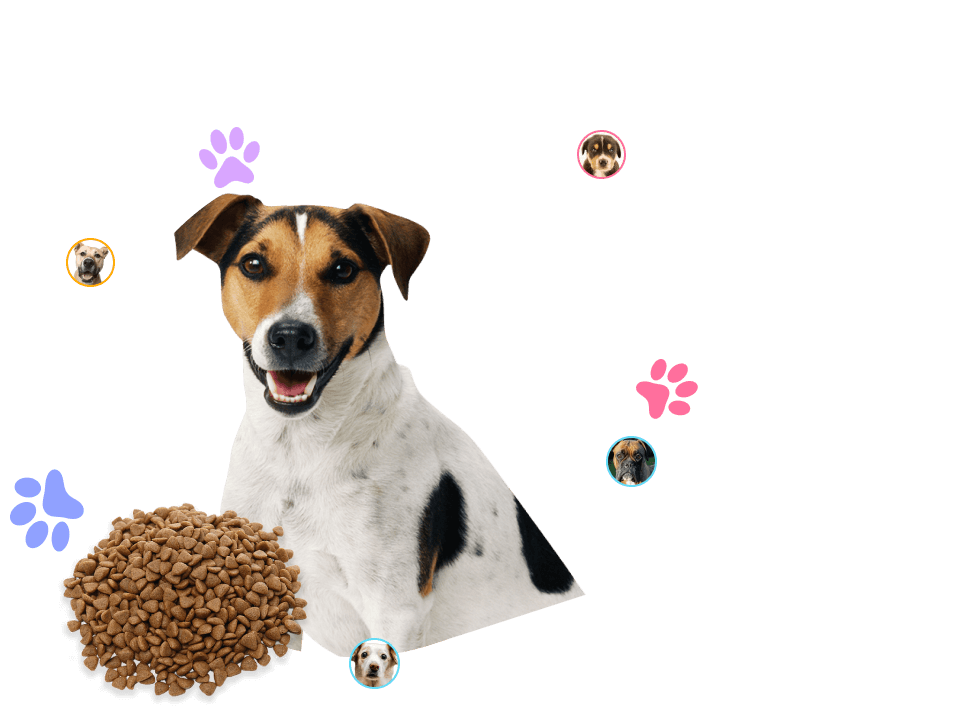
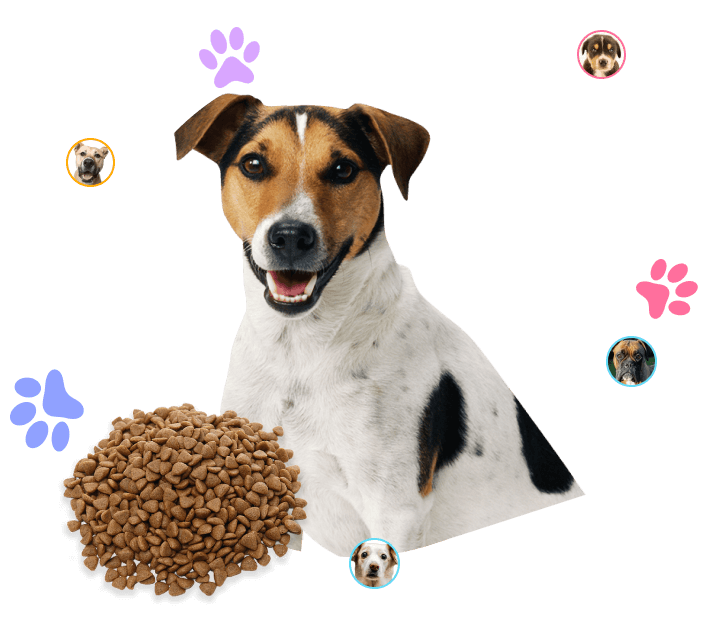
fix: ajustes nas imagens dos cachorros para um melhor alinhamento do container

diff --git a/desafio-09/src/layouts/HelpSection/index.tsx b/desafio-09/src/layouts/HelpSection/index.tsx
@@ -7,7 +7,7 @@ import { Button } from "../../components/Button";
 export const HelpSection: React.FC = () => {
   return (
     <section className="py-20 lg:py-32 px-8">
-      <div className="lg:flex lg:items-center lg:gap-24 max-w-6xl mx-auto">
+      <div className="lg:flex lg:items-center lg:gap-2 max-w-6xl mx-auto">
         <div className="flex flex-col items-center lg:items-start">
           <img className="mb-16 md:mb-20 lg:mb-28" src={Logo} alt="Logo HelpDog" />
           <h1 className="font-pangolin text-3xl md:text-4xl lg:text-5xl text-center lg:text-start max-w-80 md:max-w-96 lg:max-w-3xl mb-4 md:mb-6">

diff --git a/desafio-09/src/layouts/StoriesSection/index.tsx b/desafio-09/src/layouts/StoriesSection/index.tsx
@@ -5,8 +5,8 @@ import { Button } from "../../components/Button";
 
 export const StoriesSection: React.FC = () => {
   return (
-    <section className="bg-gray-100 pt-3 pb-20 px-8">
-      <div className="flex flex-col lg:flex-row lg:items-center gap-3 max-w-6xl mx-auto">
+    <section className="bg-gray-100 py-20 px-8">
+      <div className="flex flex-col lg:flex-row lg:items-center gap-14 max-w-6xl mx-auto">
         <div className="flex justify-center">
           <img src={DogImage} alt="Imagem de um cachorro" />
         </div>
